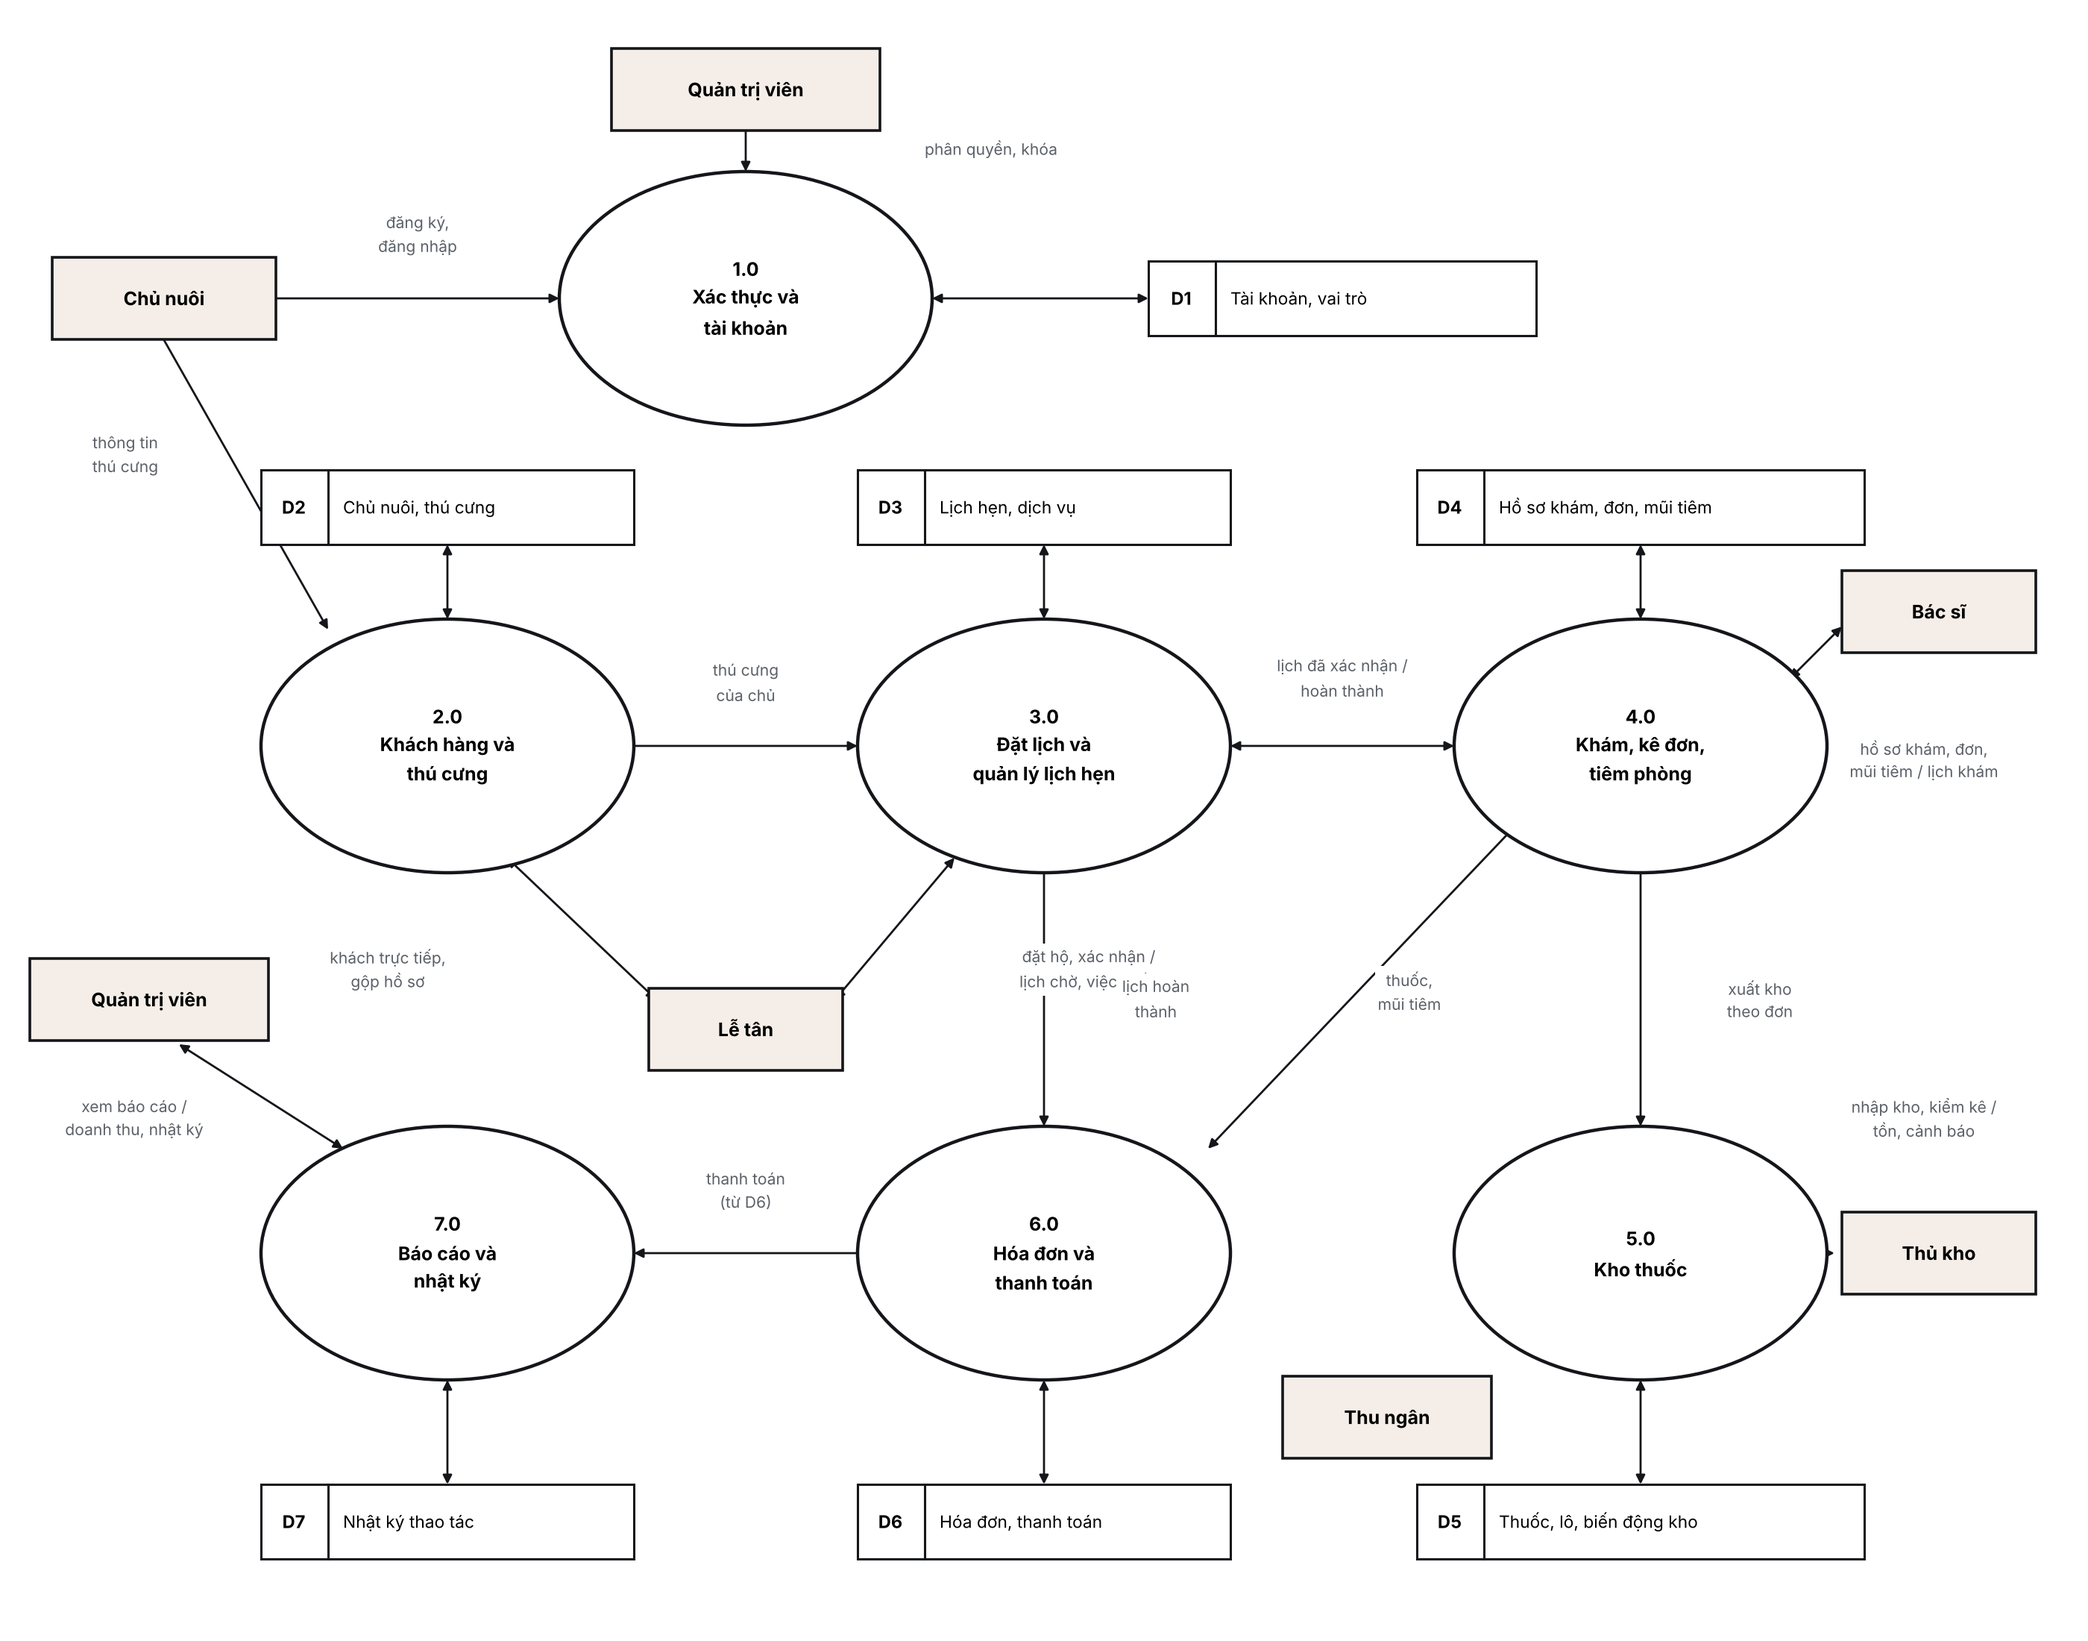
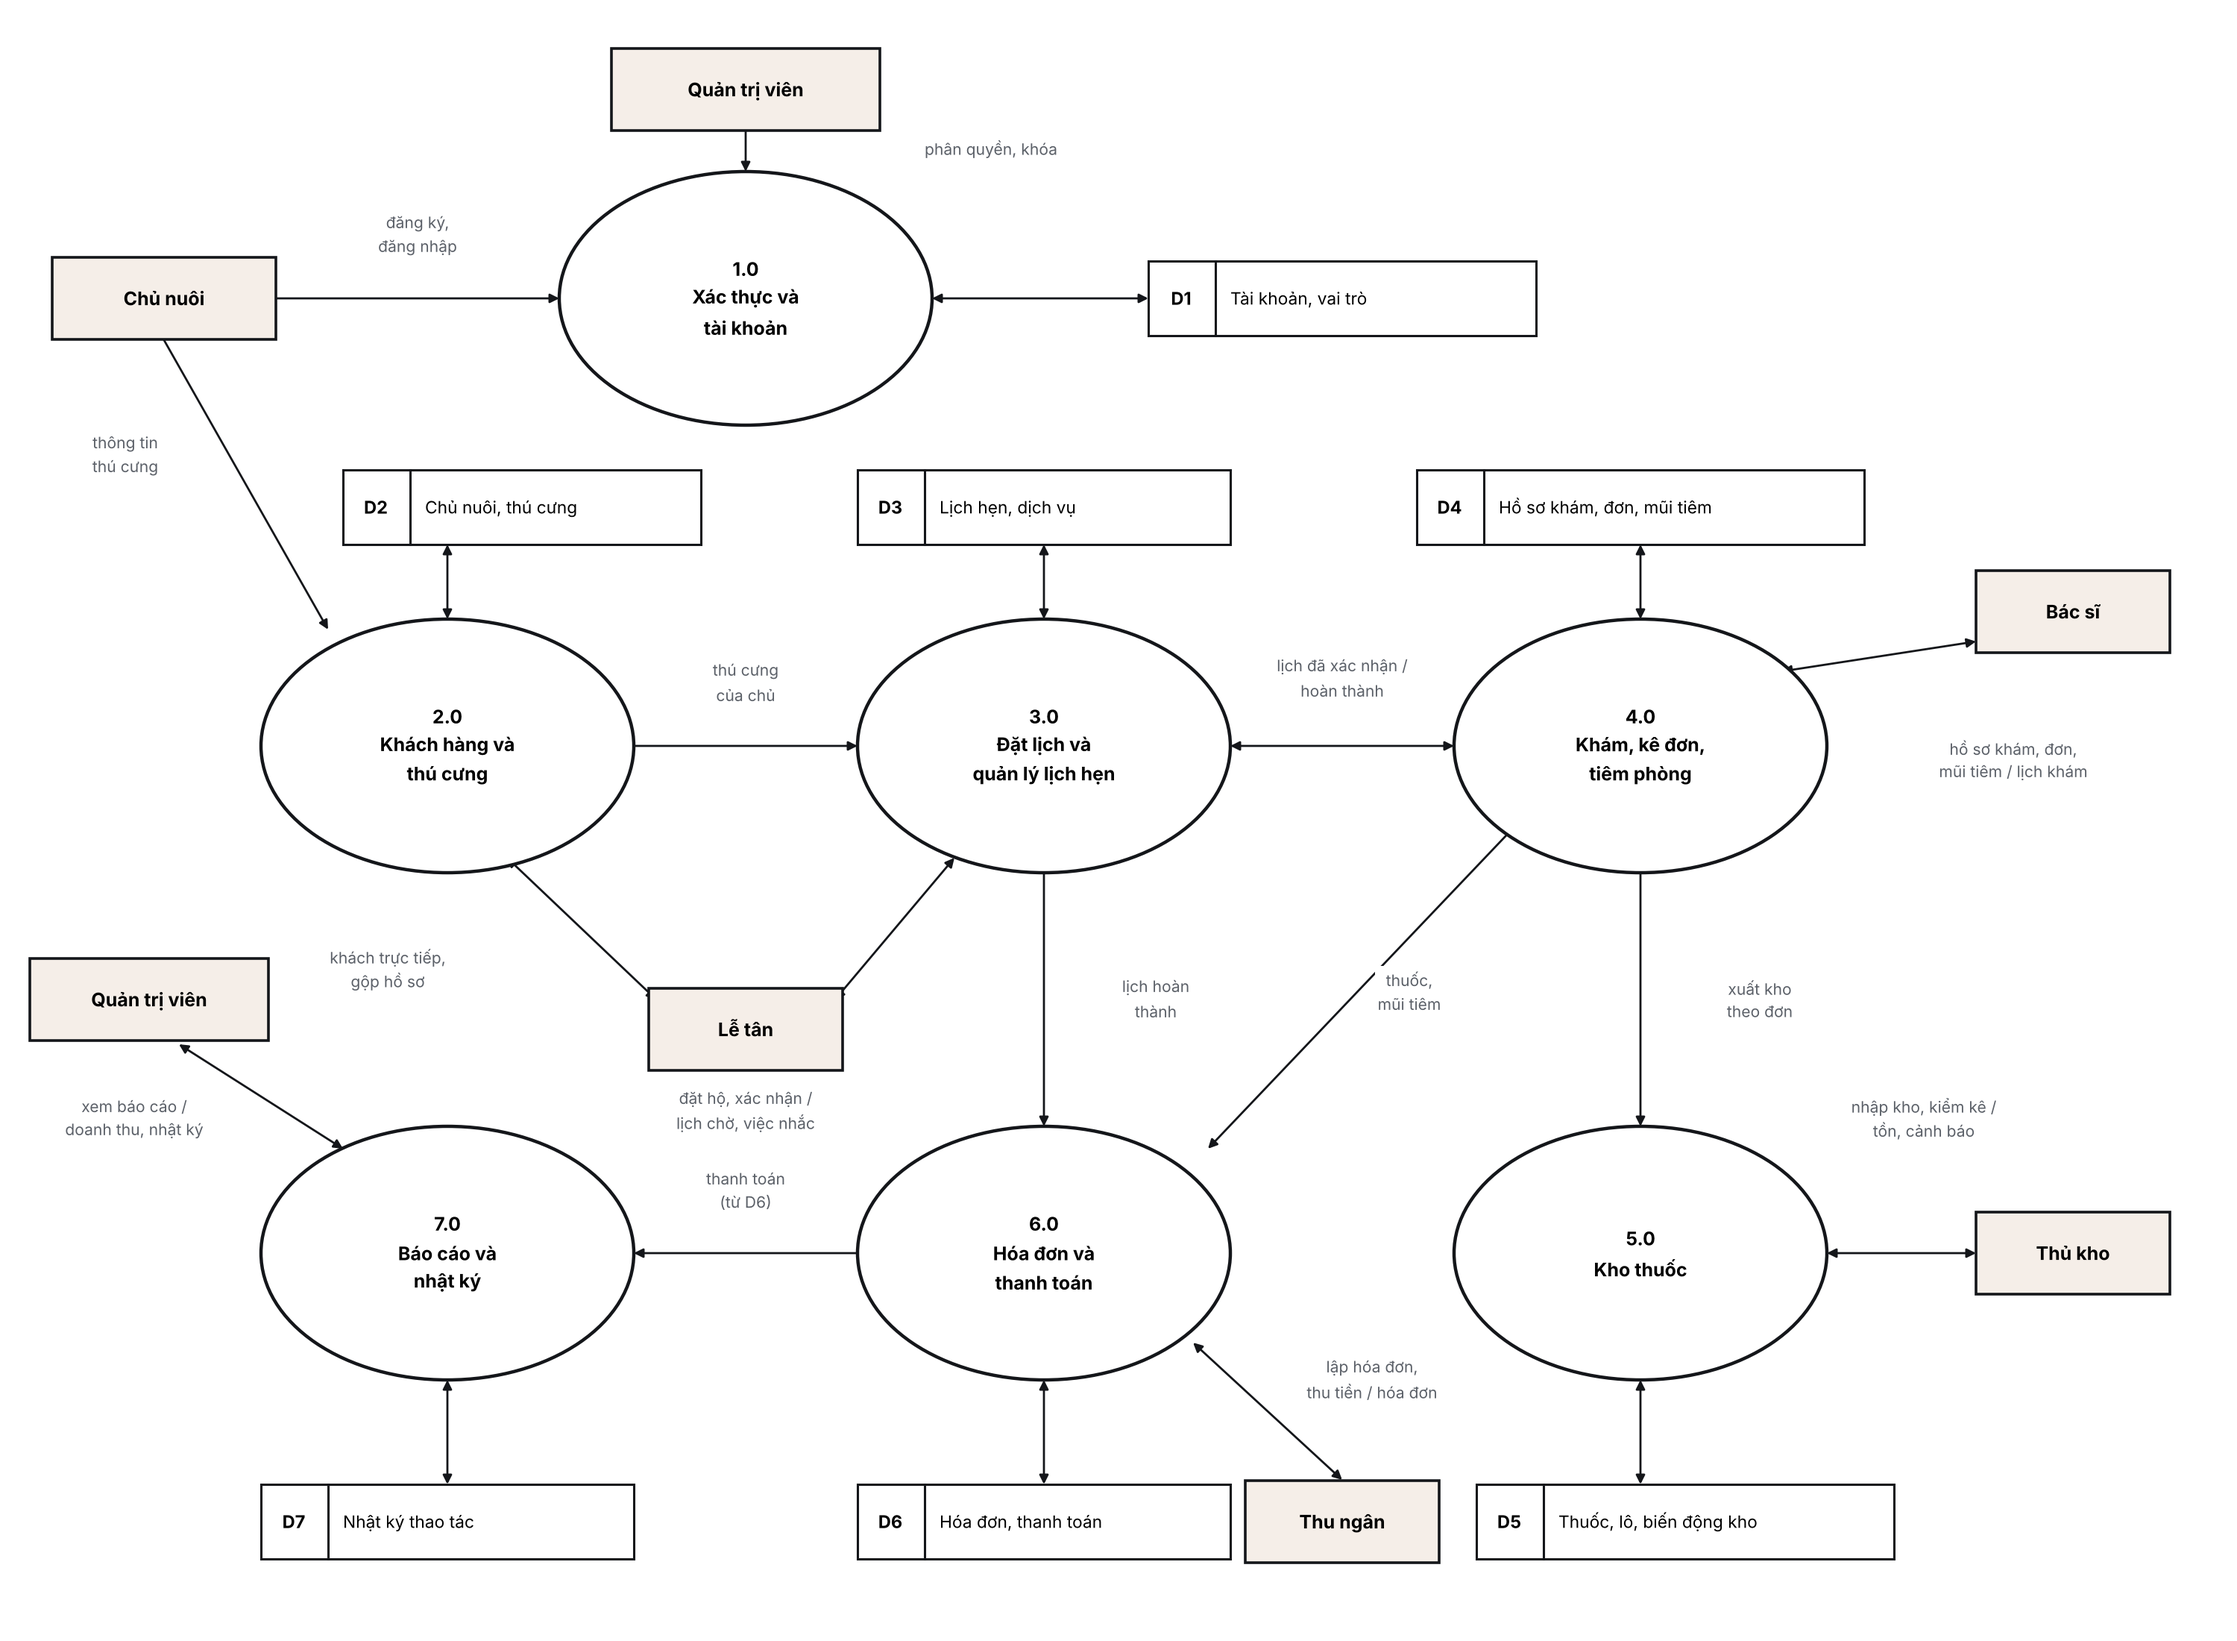
Chỉnh DFD mức 1 (bản nháp, còn thiếu sơ đồ triển khai và tuần tự)
Claude-Session: https://claude.ai/code/session_01LhpUKZ2XJMaaZ14XjeYQVL

diff --git a/docs/img-src/so_do_pt.py b/docs/img-src/so_do_pt.py
@@ -92,14 +92,14 @@ flow(ax,(6.0,8.02),(6.0,5.75),"mã kiểm tra",at=0.5,off=(-0.75,0)); flow(ax,(7
 flow(ax,(6.5,3.05),(6.5,0.78),"thư xác nhận email,\nthư đặt lại mật khẩu",at=0.5,off=(1.15,0))
 f.savefig(OUT+"hinh-2-5-dfd-ngu-canh.png",dpi=200); plt.close(f)
 # ---- level 1
-W,H=14,11; f,ax=fig(W,H)
+W,H=15,11; f,ax=fig(W,H)
 P={1:(5,9.0,"1.0\nXác thực và\ntài khoản"),2:(3,6.0,"2.0\nKhách hàng và\nthú cưng"),3:(7,6.0,"3.0\nĐặt lịch và\nquản lý lịch hẹn"),4:(11,6.0,"4.0\nKhám, kê đơn,\ntiêm phòng"),
    7:(3,2.6,"7.0\nBáo cáo và\nnhật ký"),6:(7,2.6,"6.0\nHóa đơn và\nthanh toán"),5:(11,2.6,"5.0\nKho thuốc")}
 for k,(x,y,t) in P.items(): proc(ax,x,y,t)
-for (x,y,c,t,w) in [(9,9.0,"D1","Tài khoản, vai trò",2.6),(3,7.6,"D2","Chủ nuôi, thú cưng",2.5),(7,7.6,"D3","Lịch hẹn, dịch vụ",2.5),(11,7.6,"D4","Hồ sơ khám, đơn, mũi tiêm",3.0),
-    (3,0.8,"D7","Nhật ký thao tác",2.5),(7,0.8,"D6","Hóa đơn, thanh toán",2.5),(11,0.8,"D5","Thuốc, lô, biến động kho",3.0)]: store(ax,x,y,c,t,w=w)
-ent(ax,1.1,9.0,"Chủ nuôi",w=1.5); ent(ax,5,10.4,"Quản trị viên",w=1.8); ent(ax,5,4.1,"Lễ tân",w=1.3); ent(ax,13.0,6.9,"Bác sĩ",w=1.3)
-ent(ax,13.0,2.6,"Thủ kho",w=1.3); ent(ax,9.3,1.5,"Thu ngân",w=1.4); ent(ax,1.0,4.3,"Quản trị viên",w=1.6)
+for (x,y,c,t,w) in [(9,9.0,"D1","Tài khoản, vai trò",2.6),(3.5,7.6,"D2","Chủ nuôi, thú cưng",2.4),(7,7.6,"D3","Lịch hẹn, dịch vụ",2.5),(11,7.6,"D4","Hồ sơ khám, đơn, mũi tiêm",3.0),
+    (3,0.8,"D7","Nhật ký thao tác",2.5),(7,0.8,"D6","Hóa đơn, thanh toán",2.5),(11.3,0.8,"D5","Thuốc, lô, biến động kho",2.8)]: store(ax,x,y,c,t,w=w)
+ent(ax,1.1,9.0,"Chủ nuôi",w=1.5); ent(ax,5,10.4,"Quản trị viên",w=1.8); ent(ax,5,4.1,"Lễ tân",w=1.3); ent(ax,13.9,6.9,"Bác sĩ",w=1.3)
+ent(ax,13.9,2.6,"Thủ kho",w=1.3); ent(ax,9.0,0.8,"Thu ngân",w=1.3); ent(ax,1.0,4.3,"Quản trị viên",w=1.6)
 # 1.0
 flow(ax,(1.85,9.0),(3.75,9.0),"đăng ký,\nđăng nhập",off=(0,0.42))
 flow(ax,(5,10.12),(5,9.85),both=False); lab(ax,(6.2,10.0),"phân quyền, khóa",ha="left")
@@ -108,21 +108,22 @@ flow(ax,(6.25,9.0),(7.7,9.0),both=True)
 flow(ax,(1.1,8.72),(2.2,6.78),"thông tin\nthú cưng",at=0.4,off=(-0.7,0))
 for x in (3,7,11): flow(ax,(x,7.35),(x,6.85),both=True)
 flow(ax,(4.4,4.3),(3.4,5.25),both=True); lab(ax,(2.6,4.5),"khách trực tiếp,\ngộp hồ sơ")
-flow(ax,(5.6,4.3),(6.4,5.25),both=True); lab(ax,(7.3,4.5),"đặt hộ, xác nhận /\nlịch chờ, việc nhắc")
+flow(ax,(5.6,4.3),(6.4,5.25),both=True); lab(ax,(5.0,3.55),"đặt hộ, xác nhận /\nlịch chờ, việc nhắc")
 flow(ax,(4.25,6.0),(5.75,6.0),"thú cưng\ncủa chủ",off=(0,0.42))
 flow(ax,(8.25,6.0),(9.75,6.0),"lịch đã xác nhận /\nhoàn thành",both=True,off=(0,0.45))
-flow(ax,(12.35,6.8),(12.0,6.45),both=True); lab(ax,(12.9,5.9),"hồ sơ khám, đơn,\nmũi tiêm / lịch khám")
+flow(ax,(13.25,6.7),(11.95,6.5),both=True); lab(ax,(13.5,5.9),"hồ sơ khám, đơn,\nmũi tiêm / lịch khám")
 # 4.0 -> 5.0, 3.0 -> 6.0, 4.0 -> 6.0
 flow(ax,(11,5.15),(11,3.45),"xuất kho\ntheo đơn",off=(0.8,0))
 flow(ax,(7,5.15),(7,3.45),"lịch hoàn\nthành",off=(0.75,0))
 flow(ax,(10.1,5.4),(8.1,3.3)); lab(ax,(9.45,4.35),"thuốc,\nmũi tiêm")
 # 5.0
 flow(ax,(11,1.75),(11,1.05),both=True)
-flow(ax,(12.3,2.6),(12.0,2.6),both=True); lab(ax,(12.9,3.5),"nhập kho, kiểm kê /\ntồn, cảnh báo")
+flow(ax,(13.25,2.6),(12.25,2.6),both=True); lab(ax,(12.9,3.5),"nhập kho, kiểm kê /\ntồn, cảnh báo")
 # 6.0
 flow(ax,(7,1.75),(7,1.05),both=True)
 # 7.0
 flow(ax,(5.75,2.6),(4.25,2.6),"thanh toán\n(từ D6)",off=(0,0.42))
 flow(ax,(3,1.75),(3,1.05),both=True)
 flow(ax,(1.2,4.0),(2.3,3.3),both=True); lab(ax,(0.9,3.5),"xem báo cáo /\ndoanh thu, nhật ký")
+flow(ax,(9.0,1.08),(8.0,2.0),both=True); lab(ax,(9.2,1.75),"lập hóa đơn,\nthu tiền / hóa đơn",)
 f.savefig(OUT+"hinh-2-6-dfd-muc-1.png",dpi=200); plt.close(f)
